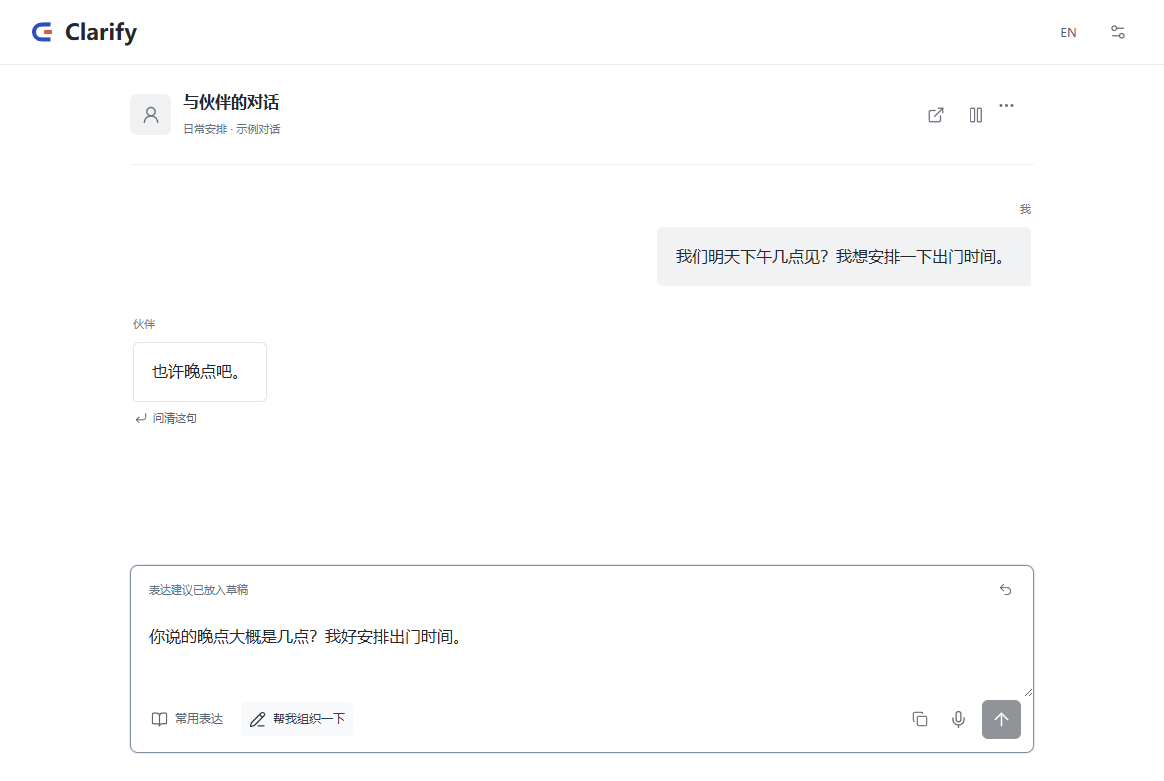
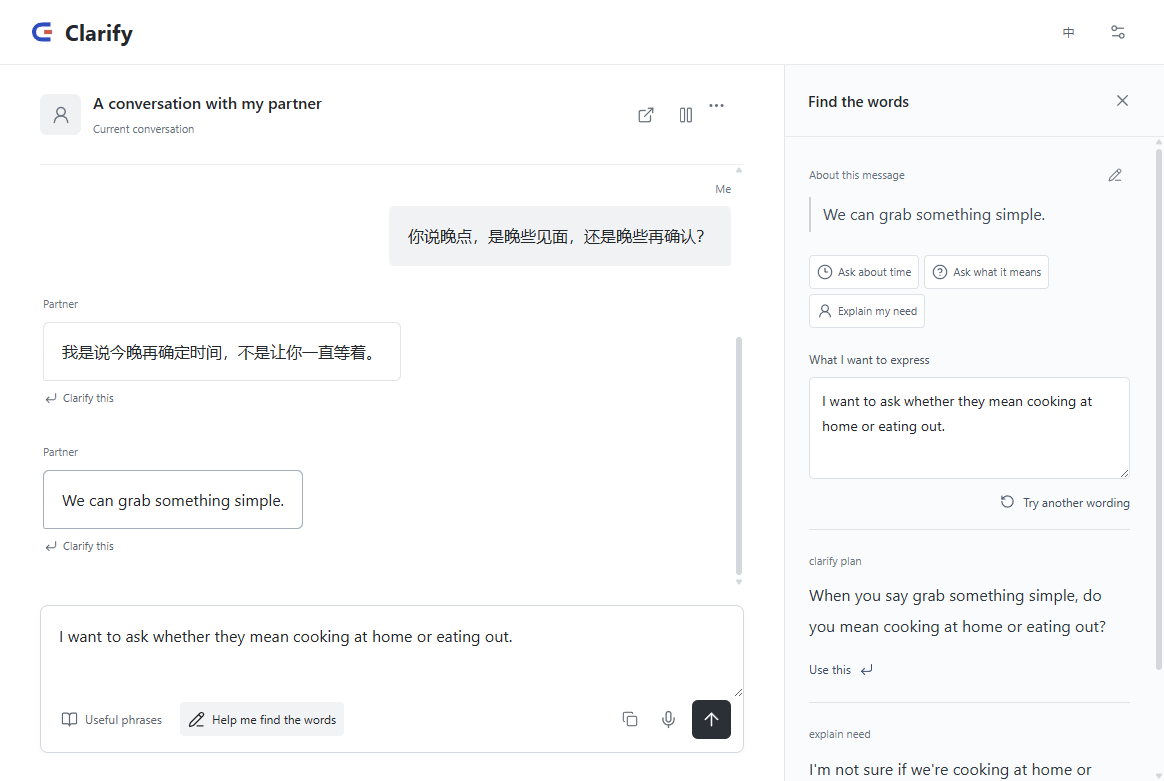
refine(clarify): English UI captures and tighter scope copy

diff --git a/projects/clarify.html b/projects/clarify.html
@@ -71,7 +71,7 @@
 <section class="cl-cover">
 <figure>
 <div class="cl-cover-frame">
-<img alt="The Clarify desktop view: the conversation on the left, and a private draft panel on the right where the user rewrites the question before sending it." decoding="async" fetchpriority="high" height="861" src="../images/clarify/desktop.png" width="1344"/>
+<img alt="The Clarify desktop view: the conversation on the left, and a private draft panel on the right where the user rewrites the question before sending it." decoding="async" fetchpriority="high" height="950" src="../images/clarify/desktop.png" width="1440"/>
 </div>
 <figcaption class="cl-caption">The working interface. Left: the conversation you both see. Right: a draft only you can see.</figcaption>
 </figure>
@@ -148,13 +148,12 @@
 </section>
 
 <section class="cl-note" aria-labelledby="limits-title">
-<h2 id="limits-title">What this prototype is not</h2>
+<h2 id="limits-title">Scope and status</h2>
 <ul>
-<li>It is <strong>not a validated product</strong>. No user study has been run, no accessibility audit, no screen-reader acceptance test.</li>
-<li>The two views are a <strong>single-machine simulation</strong>, not a real cross-device chat system.</li>
-<li>Without an API key, the suggested phrasings are <strong>pre-written examples</strong>, clearly labelled in the interface.</li>
-<li>There is no account system and no conversation database; nothing is stored after the window closes.</li>
-<li>The API key stays on your machine. No build of this application contains anyone's credentials.</li>
+<li><strong>Research prototype.</strong> The design question comes first: how much of a difficult question should be negotiated before it is asked.</li>
+<li><strong>Single machine, two views.</strong> Both sides run in one window so the exchange can be inspected without a second device.</li>
+<li><strong>Works offline.</strong> Without a key, phrasings come from labelled preset examples, so the interaction stays demonstrable with no network.</li>
+<li><strong>Local by design.</strong> No account system, no conversation database, no server. Nothing is stored after the window closes, and any API key stays on your machine.</li>
 </ul>
 </section>
 
